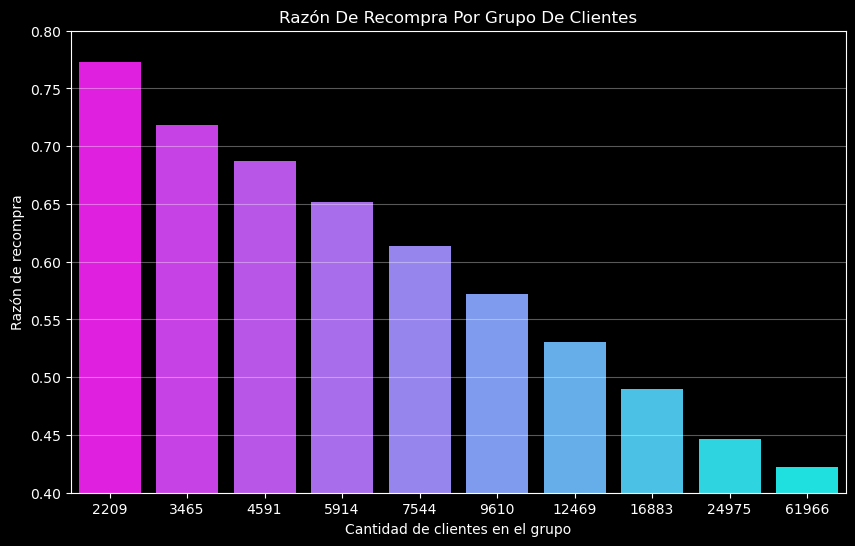
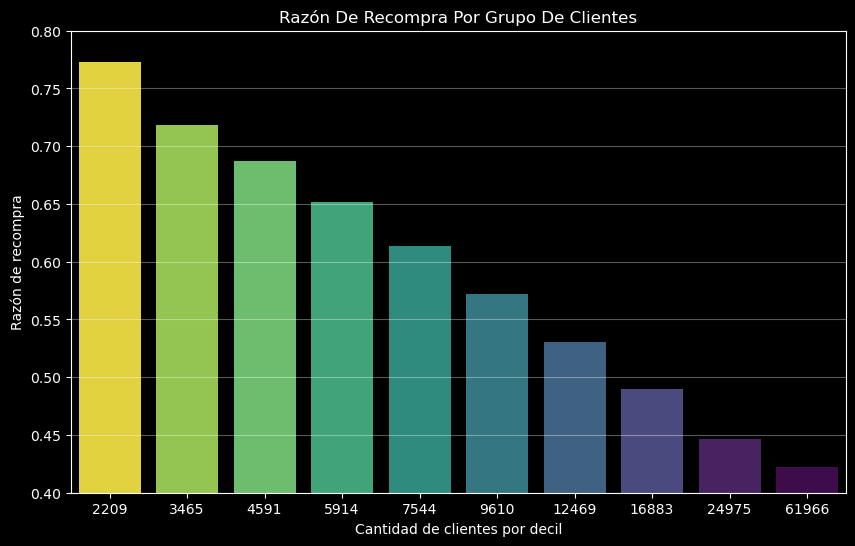
Imagenes en README

Changed region(s): [[0.0912, 0.0934, 1.0, 0.9029], [0.3953, 0.9341, 0.669, 0.9963]]

diff --git a/README.md b/README.md
@@ -5,10 +5,24 @@ Este proyecto transforma un dataset masivo de transacciones de **Instacart** en 
 ## 📊 Resumen Ejecutivo: Consumer Insights
 
 * **⚡ El Motor del Catálogo (Efecto Pareto):** Se identificó una concentración extrema donde solo el **1.7% de los productos** genera el **50% del volumen total** de ventas.
-* **🌿 La Ventaja Orgánica:** El segmento orgánico domina el Top 20 de ventas y presenta una tasa de recompra significativamente superior al promedio general.
-* **⏰ Ciclos de Fidelidad Siete-Días:** Existe una "marea" semanal de demanda que alcanza su pico los **domingos y lunes**, con un ciclo de reposición exacto de **7 días**.
-* **💎 Usuarios VIP:** Menos del **2% de los usuarios** mueven el **10% de las transacciones**, manteniendo una lealtad del **77%** en sus canastas básicas.
+<p align="center">
+  <img src="images/decil_prods.png" width="600">
+</p>
 
+* **🌿 La Ventaja Orgánica:** El segmento orgánico domina el Top 20 de ventas y presenta una tasa de recompra significativamente superior al promedio general.
+<p align="center">
+  <img src="images/Top20_prods_ratio.png" width="600">
+</p>
+
+* **⏰ Ciclos de Fidelidad Siete-Días:** Existe una "marea" semanal de demanda que alcanza su pico los **domingos y lunes**, con un ciclo de reposición exacto de **7 días**.
+<p align="center">
+  <img src="images/orders_day.png" width="600">
+</p>
+
+* **💎 Usuarios VIP:** Menos del **2% de los usuarios** mueven el **10% de las transacciones**, manteniendo una lealtad del **77%** en sus canastas básicas.
+<p align="center">
+  <img src="images/decil_usrs.png" width="600">
+</p>
 ---
 
 ## 🔬 Metodología y Hallazgos Críticos
@@ -23,11 +37,17 @@ Se implementó un protocolo de limpieza robusto para manejar anomalías del mund
 El análisis reveló una bimodalidad en la retención:
 * Los usuarios tienden a comprar en bloques de **7**, sugiriendo hábitos de reabastecimiento semanal.
 * **Insight:** Las campañas de *re-engagement* deberían activarse preventivamente en el **día 6** para capitalizar la inercia del hábito semanal.
+<p align="center">
+  <img src="images/nombre_imagen.png" width="800">
+</p>
 
 ### 3. 🎯 Segmentación por Deciles (Pareto Analysis) 
 Utilizando un enfoque de deciles de volumen, se descubrió:
 * **Decil 1 (Productos):** 18 productos estrella ($0.04\%$ del catálogo) son los responsables del primer $10\%$ de ingresos.
 * **Decil 1 (Clientes):** Solo 2,209 usuarios ($1.48\%$ de la base) generan el $10\%$ del volumen, con una tasa de recompra del **$77.3\%$**.
+<p align="center">
+  <img src="images/nombre_imagen.png" width="800">
+</p>
 
 ---
 
